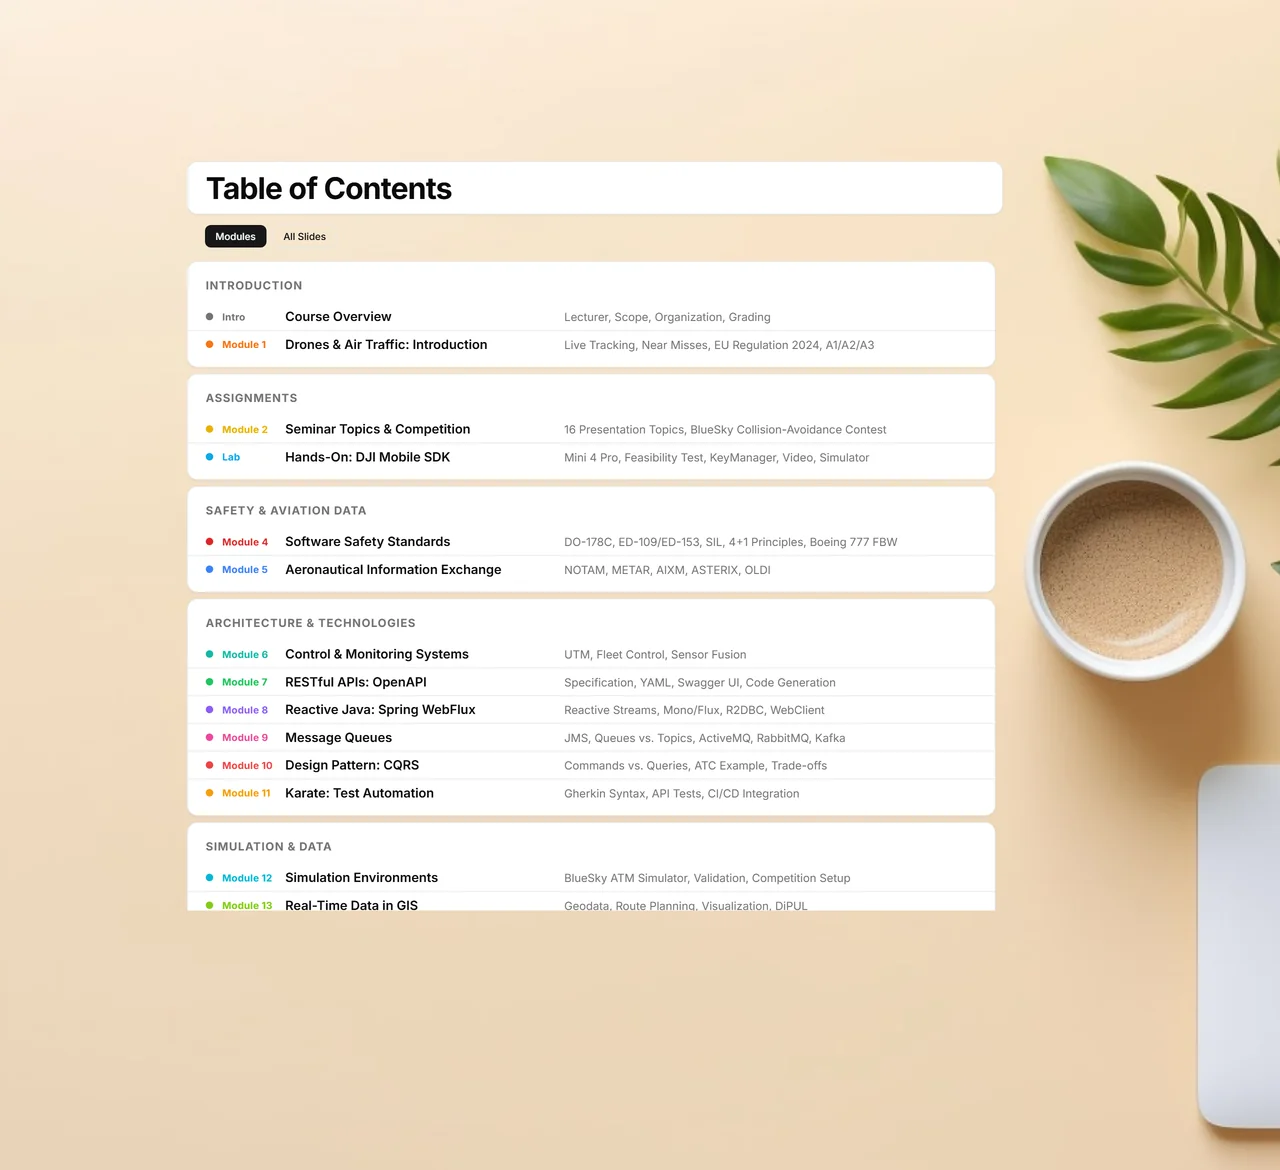
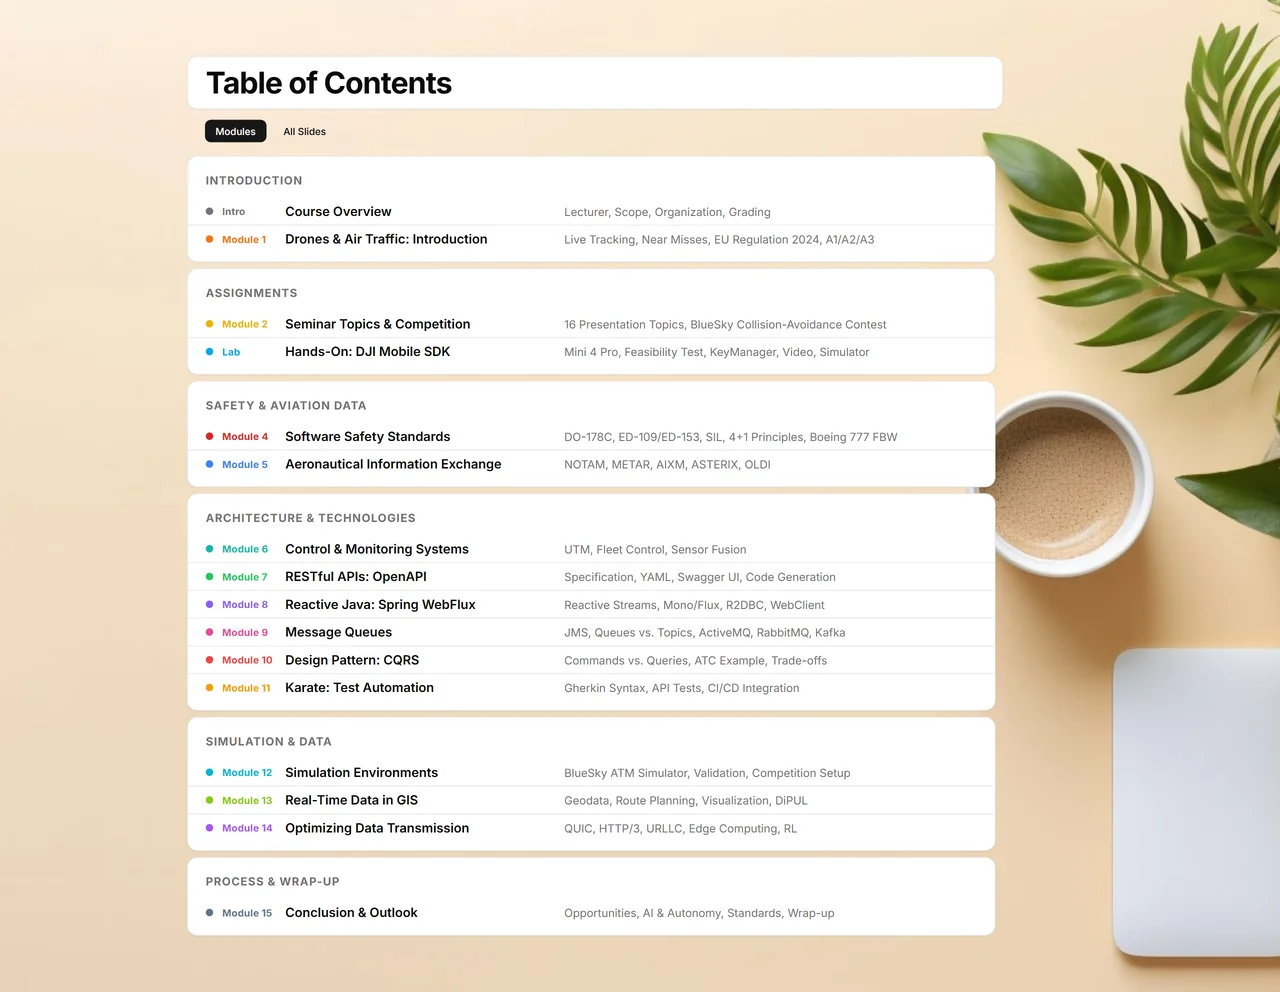
TOC screenshot: capture full module list (was cut at Module 13)
Expand the scrollable #toc-modules for the shot and fit the viewport
to the measured content bounds instead of a hardcoded 1170px height.

Claude-Session: https://claude.ai/code/session_017PupQGkJPU9Dky4k86WUjB

diff --git a/tools/_screenshot_toc.py b/tools/_screenshot_toc.py
@@ -20,13 +20,16 @@ threading.Thread(target=httpd.serve_forever, daemon=True).start()
 try:
     with sync_playwright() as p:
         browser = p.chromium.launch()
-        page = browser.new_page(viewport={"width": 1280, "height": 1170}, device_scale_factor=2)
+        page = browser.new_page(viewport={"width": 1280, "height": 2400}, device_scale_factor=2)
         page.goto(f"http://127.0.0.1:{PORT}", wait_until="networkidle")
         page.wait_for_selector(".slide.active", timeout=10000)
         page.evaluate("window.go(1)")
         page.evaluate("""() => {
             const nav = document.getElementById('nav'); if (nav) nav.style.display = 'none';
             const pr = document.getElementById('progress'); if (pr) pr.style.display = 'none';
+            // expand the scrollable module list so no entry is cut off
+            const toc = document.getElementById('toc-modules');
+            if (toc) { toc.style.maxHeight = 'none'; toc.style.overflowY = 'visible'; }
             const s = document.querySelector('.slide.active');
             const cs = getComputedStyle(s);
             document.body.style.backgroundImage = cs.backgroundImage;
@@ -36,9 +39,36 @@ try:
             s.style.backgroundImage = 'none';
             s.style.backgroundColor = 'transparent';
             s.style.transform = 'scale(0.75)';
-            s.style.transformOrigin = 'center center';
+            s.style.transformOrigin = 'top center';
         }""")
         time.sleep(1.2)
+        # fit viewport to the transformed content with symmetric margins;
+        # layout shifts with viewport height, so measure-and-resize until stable
+        MARGIN = 56
+        MEASURE = """() => {
+            const s = document.querySelector('.slide.active');
+            const els = s.querySelectorAll('.slide-header, .card, .card-toc, .btn, h1');
+            let top = Infinity, bottom = 0;
+            els.forEach(el => {
+                const r = el.getBoundingClientRect();
+                if (r.height === 0) return;
+                top = Math.min(top, r.top);
+                bottom = Math.max(bottom, r.bottom);
+            });
+            return { top, bottom };
+        }"""
+        dy = 0.0
+        for _ in range(6):
+            b = page.evaluate(MEASURE)
+            height = round(b["bottom"] + (MARGIN - b["top"]) + MARGIN)
+            if abs(b["top"] - MARGIN) < 1 and page.viewport_size["height"] == height:
+                break
+            dy += MARGIN - b["top"]
+            page.evaluate(
+                "dy => { const s = document.querySelector('.slide.active');"
+                "s.style.transform = `translateY(${dy}px) scale(0.75)`; }", dy)
+            page.set_viewport_size({"width": 1280, "height": height})
+            time.sleep(0.3)
         page.screenshot(path=TMP_PNG, full_page=False)
         browser.close()
     img = Image.open(TMP_PNG)